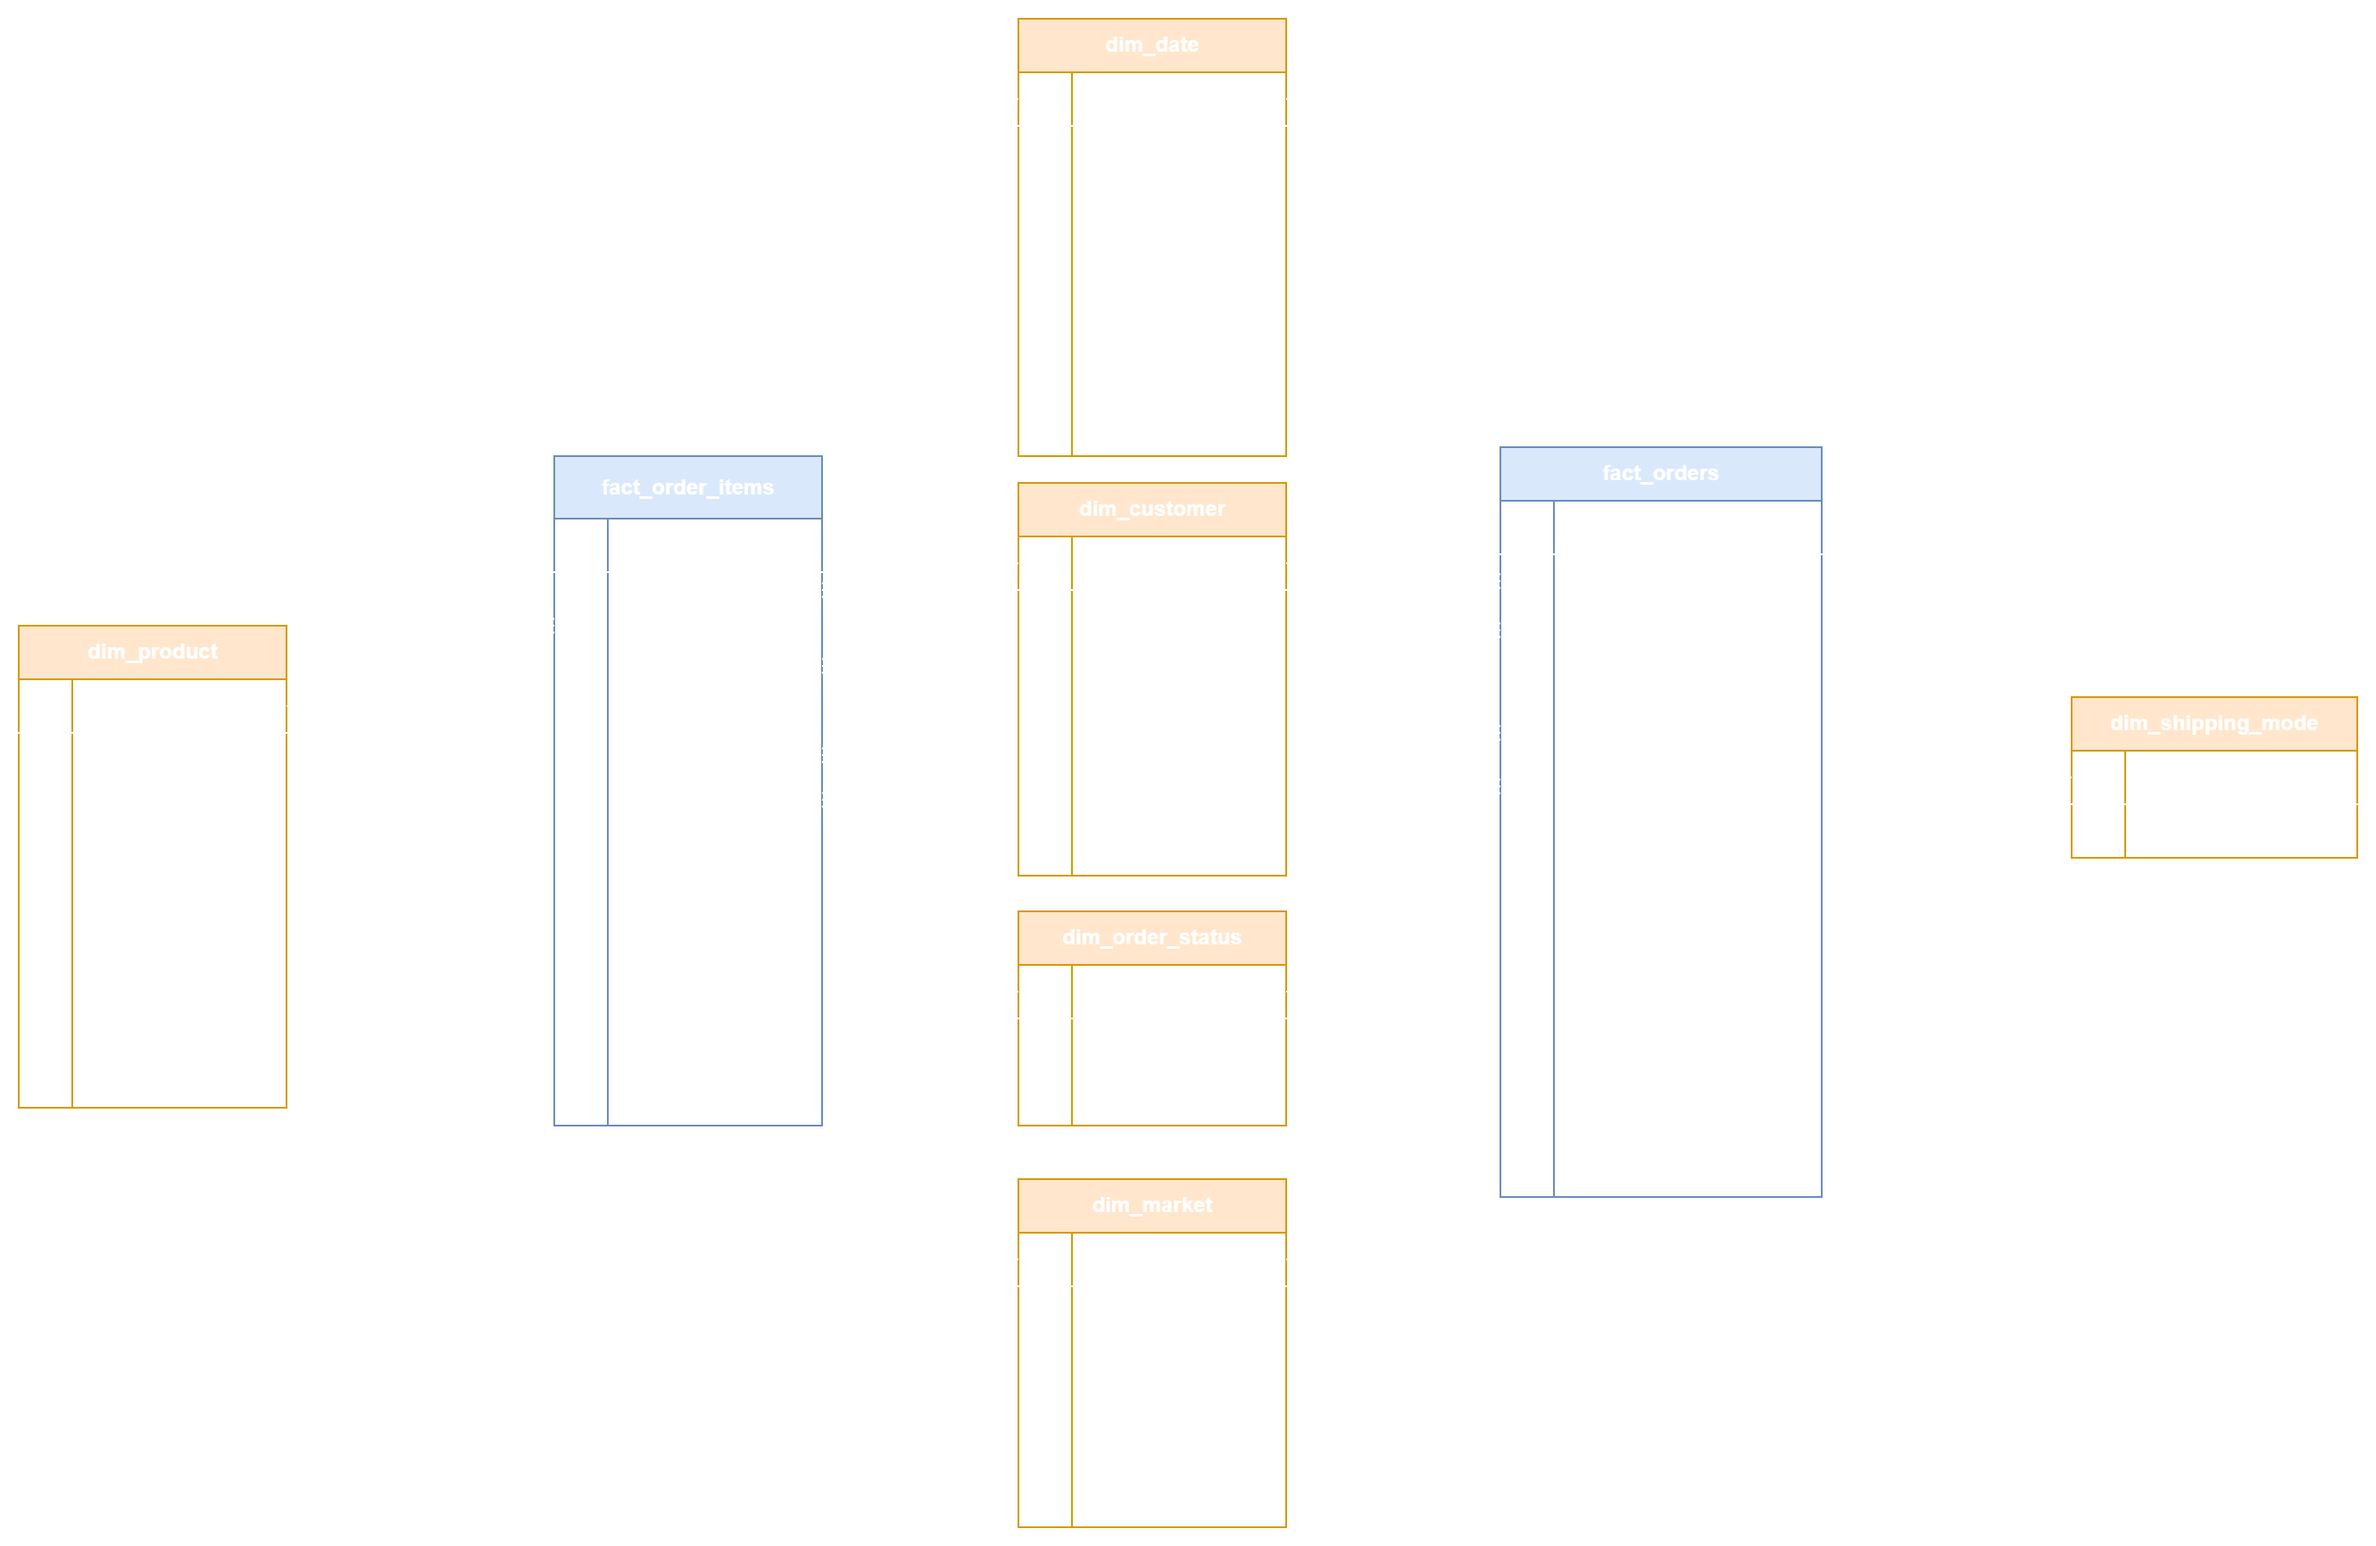
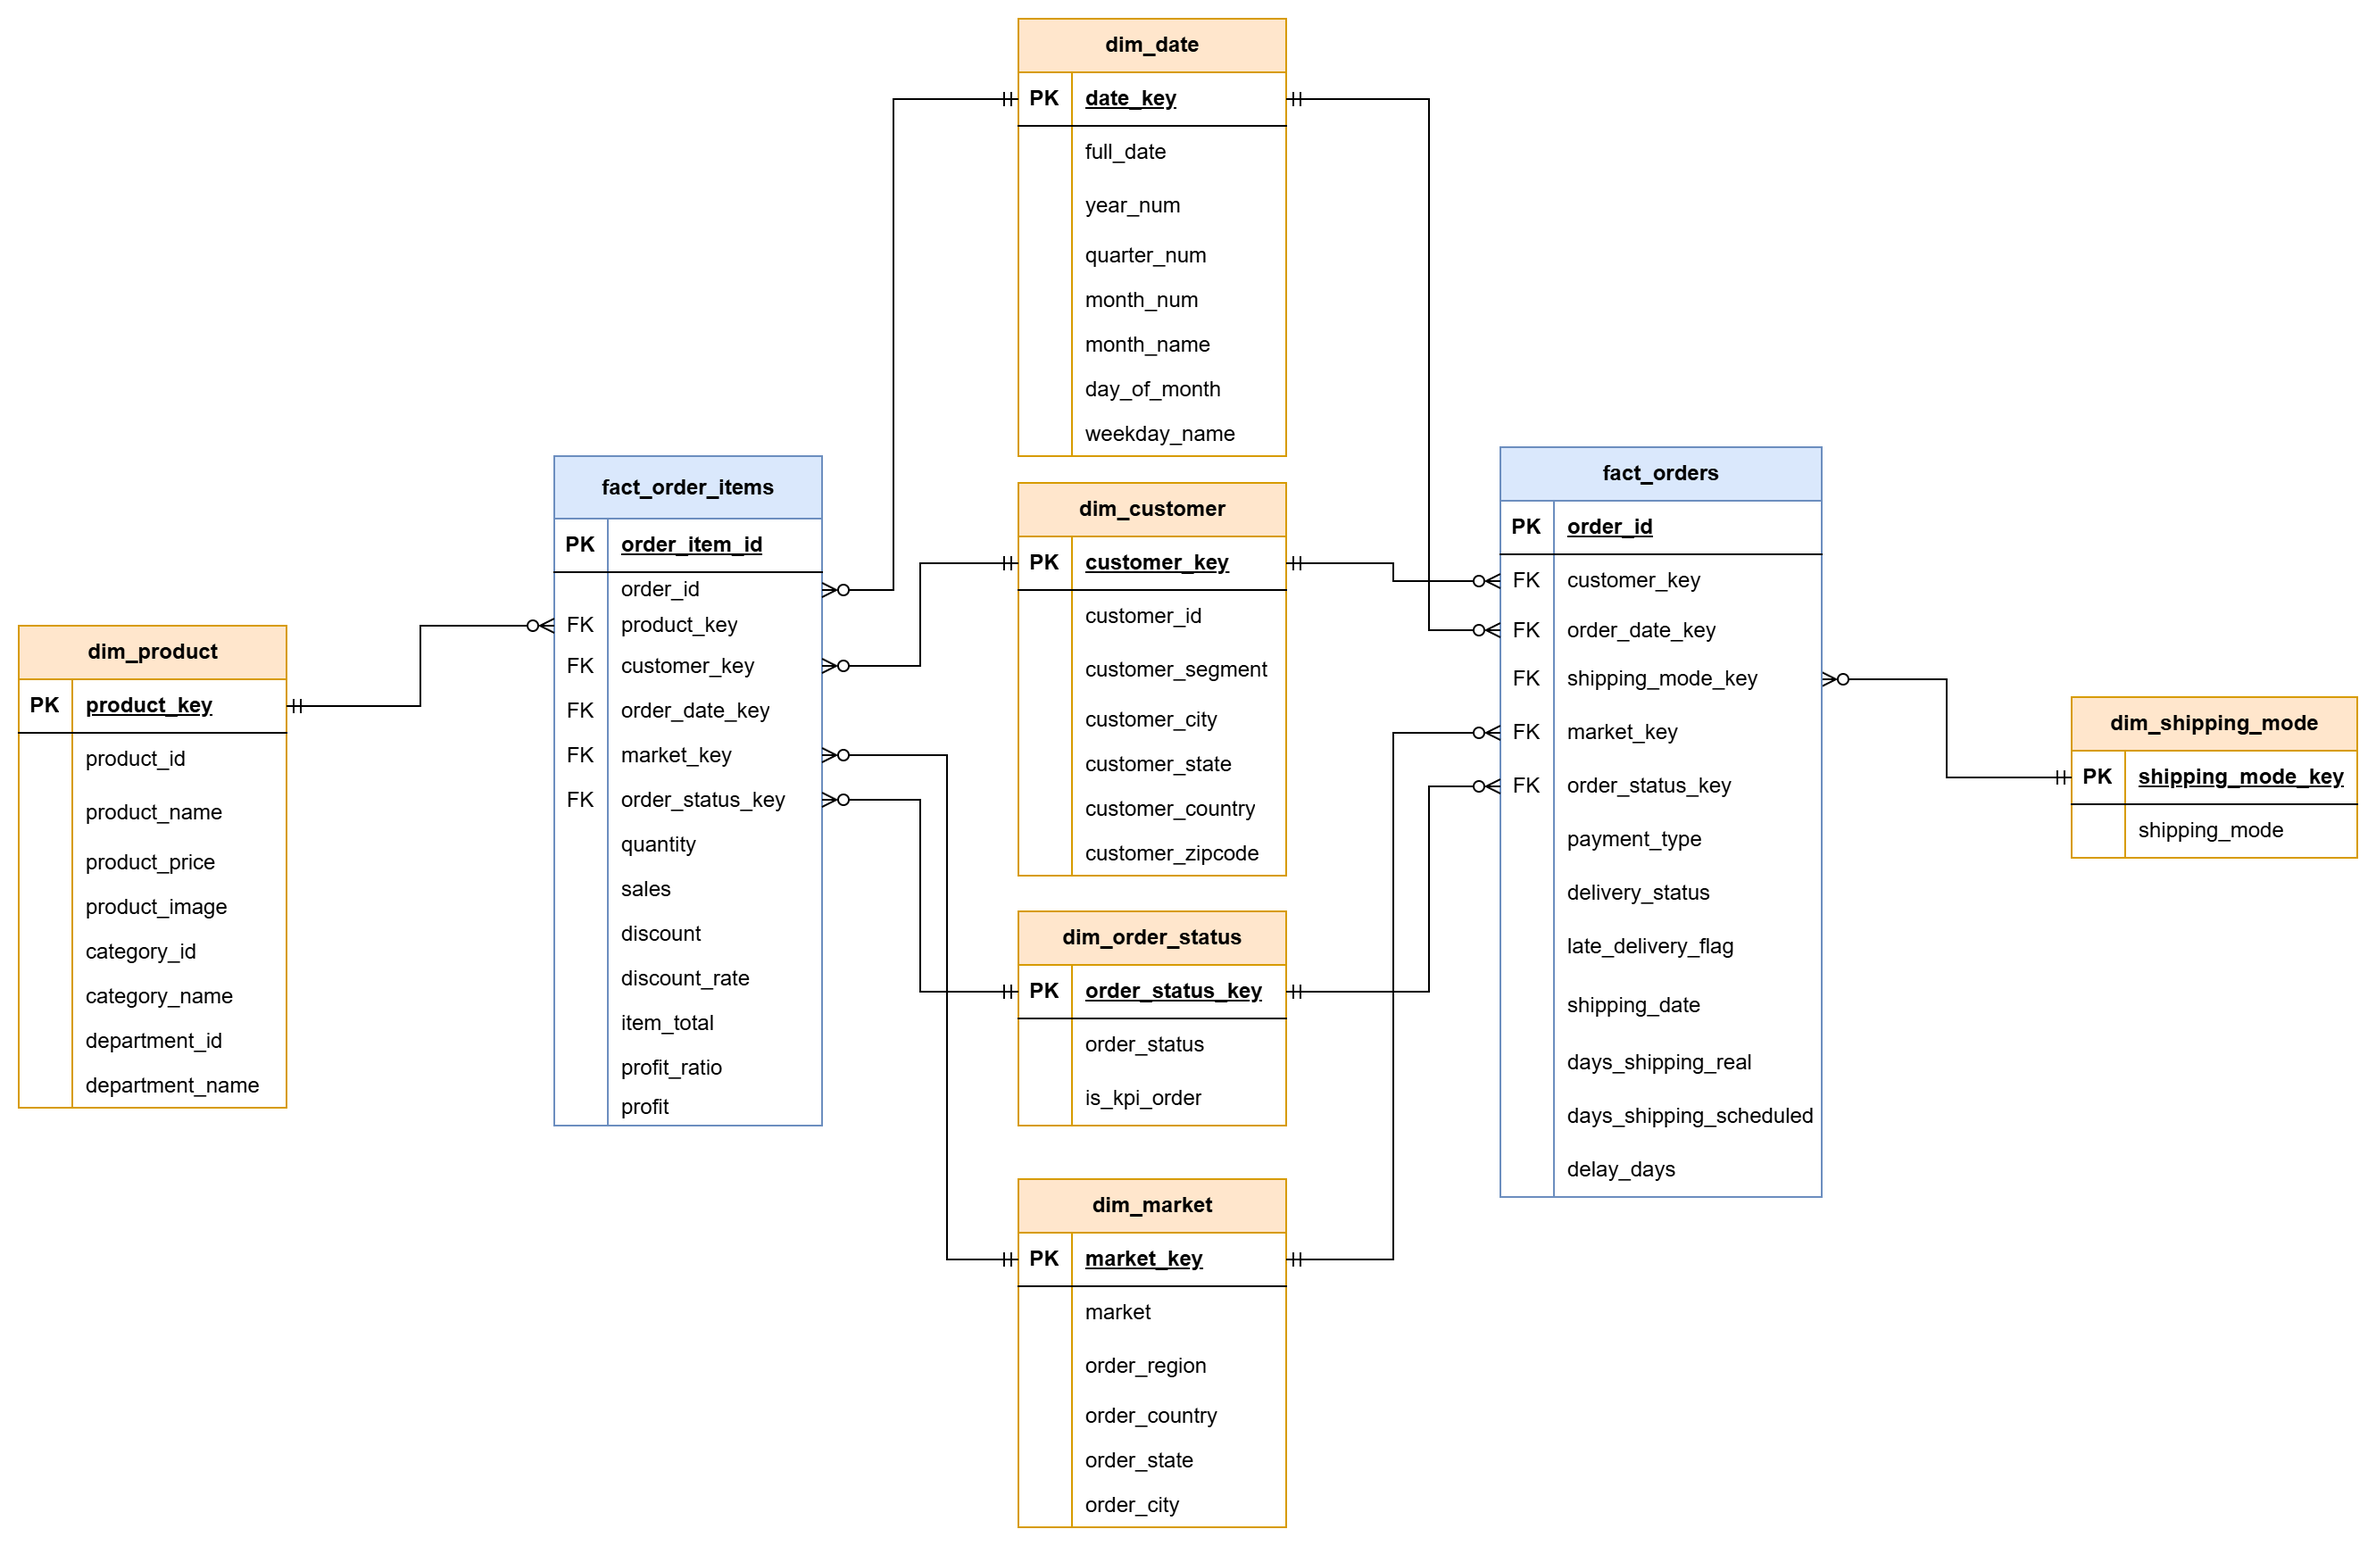
Updated README and star schema diagram

diff --git a/README.md b/README.md
@@ -1,4 +1,105 @@
-# dataco-dw
+# DataCo Supply Chain Data Warehouse
+ 
+In this project I built a small data warehouse from a supply chain dataset. I load the data into SQL Server with Python, clean it with SQL, put it in a star schema, and show the results in a Power BI report.
+ 
+I did it to learn how a real data pipeline works, step by step. I wrote down every decision I made in [docs/decisions.md](docs/decisions.md).
+ 
+## The data
+ 
+I used the DataCo Smart Supply Chain dataset (Mendeley Data / Kaggle, licence CC BY 4.0).
+ 
+- 180,519 rows and 53 columns in one flat table
+- Each row is one product in an order
+- 65,752 orders, 20,652 customers and 118 products
+- Orders from January 2015 to January 2018
+## How it works
+ 
+```
+CSV -> staging -> clean -> dw -> Power BI
+```
+ 
+- **staging**: the CSV as it is, everything as text
+- **clean**: I fix the types and the problems in the data, and keep the 37 columns I need (out of 53)
+- **dw**: the star schema, with 6 dimensions and 2 fact tables
+- **Power BI**: the report
+
+Python loads the file and runs the SQL files one after the other. After each step it runs quality checks. If a check fails, the pipeline stops.
+ 
+## The star schema
+ 
+![Star schema](docs/star_schema.png)
+ 
+I made two fact tables, because the data has two levels:
+ 
+- `fact_order_items`: one row for each product in an order (180,519 rows). Revenue and profit are here.
+- `fact_orders`: one row for each order (65,752 rows). Shipping and delays are here.
+
+If I used only one table, the delay of an order with 3 products would be counted 3 times. So the two fact tables are never joined to each other. Each number in the report comes from one fact table and its dimensions.
+ 
+The dimensions are `dim_date`, `dim_customer`, `dim_product`, `dim_market`, `dim_order_status` and `dim_shipping_mode`.
+ 
+## KPIs
+ 
+| KPI | Value |
+|---|---|
+| Net revenue | 31.64M |
+| Net profit | 3.81M |
+| Profit margin | 12.03% |
+| Average order value | 503.12 |
+| Late delivery rate | 57.31% |
+| Average delay (only late orders) | 1.62 days |
+| Number of orders | 62,897 |
+ 
+I don't count the orders with status `CANCELED` or `SUSPECTED_FRAUD` (2,855 orders). With them the revenue would be 33.05M. This is my own assumption, and I explain it in decision 9.
+ 
+I checked every number in Power BI against a SQL query.
+ 
+## The report
+ 
+![Sales overview](docs/powerbi_sales.png)
+ 
+![Shipping](docs/powerbi_shipping.png)
+ 
+The file is in `powerbi/dataco_report.pbix`.
+ 
+## Data quality
+ 
+There are 13 checks after the clean step and 15 after the dw step. For example, they check that the row counts match, that revenue is the same, and that every key in a fact table exists in its dimension.
+ 
+Problems I found in the data and fixed:
+ 
+- wrong text encoding (the file is cp1252)
+- the same country with two names
+- 3 rows where the customer columns were shifted
+- zip codes saved as numbers, so the zeros at the start were lost
+### Things I saw in the data (I did not change them)
+ 
+- **From November 2017 every order has only one line.** Before that an order has about 3 lines. The number of orders stays the same, but the revenue per month gets much smaller.
+- **The markets do not cover the same months.** Africa has 6 months of data and USCA 10. Europe has orders in 18 of 31 months. So revenue by market is not a fair comparison.
+- **Every First Class order is late.** The scheduled days are always the same for each shipping mode, and every First Class order takes 2 days instead of 1.
+
+I don't know the reason for any of these. The queries that show them are in `scripts/checks/`.
+ 
+## Project structure
+ 
+```
+dataco-dw
++---data
++---docs
++---powerbi
++---scripts
+|   \---checks
++---tests
+\---src
+```
+ 
+- `data`: the CSV file (it is not stored in the repository, see How to run)
+- `docs`: decisions, diagrams and screenshots
+- `powerbi`: the report
+- `scripts`: the SQL files (clean, dimensions, facts)
+- `scripts/checks`: queries I used to look at the data
+- `tests`: the quality checks
+- `src`: the Python code
 
 ## How to run
 
